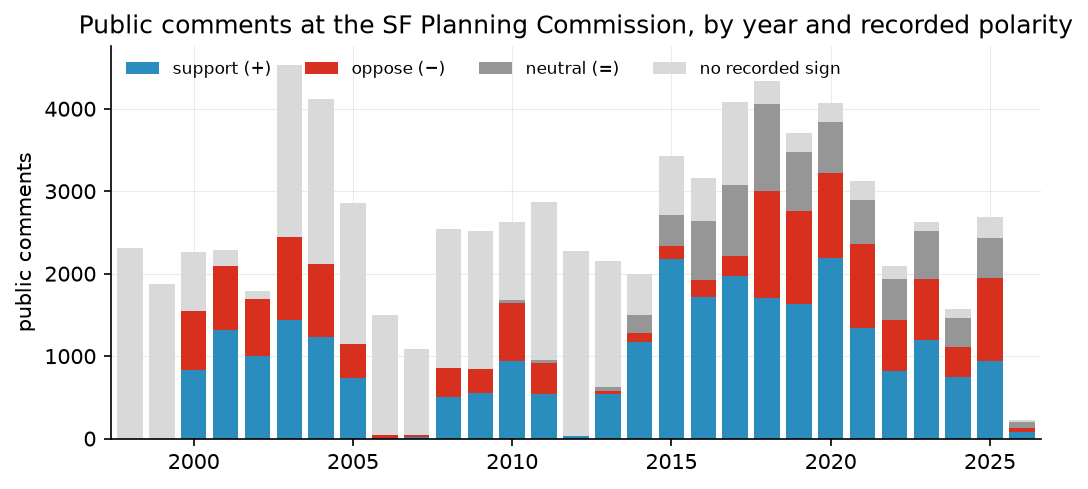
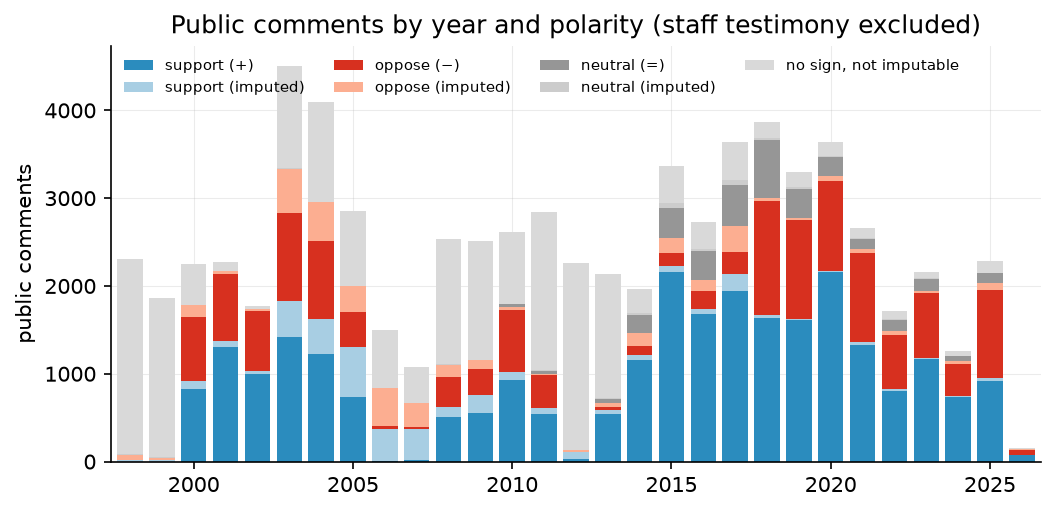
Figures: exclude staff/commissioner testimony; show imputed polarity in lighter shades

diff --git a/pipeline/make_figures.py b/pipeline/make_figures.py
@@ -33,25 +33,33 @@ def load():
     com = pd.read_csv(PUB / "comments.csv", low_memory=False)
     com["year"] = com["meeting_date"].astype(str).str[:4].astype(int)
     com = com[com["year"].between(1998, 2026)]
+    # figures describe *public* comment: exclude staff and commissioners
+    com = com[(com["is_staff"] != 1) & (com["is_commissioner"] != 1)]
     items = pd.read_csv(PUB / "items.csv.gz", low_memory=False)
     return com, items
 
 
+POS_IMP, NEG_IMP, NEU_IMP = "#a8cee3", "#fcae91", "#cccccc"
+
+
 def fig_comments_by_year(com):
-    g = com.groupby(["year", com["sign"].fillna("none")]).size().unstack(fill_value=0)
-    for c in "+-=":
-        if c not in g:
-            g[c] = 0
-    fig, ax = plt.subplots(figsize=(8, 3.4))
+    cat = com["sign"].copy()
+    imputed = com["sign"].isna() & com["sign_imputed"].notna()
+    cat[imputed] = com.loc[imputed, "sign_imputed"] + "imp"
+    g = com.groupby(["year", cat.fillna("none")]).size().unstack(fill_value=0)
+    order = [("+", POS, "support (+)"), ("+imp", POS_IMP, "support (imputed)"),
+             ("-", NEG, "oppose (−)"), ("-imp", NEG_IMP, "oppose (imputed)"),
+             ("=", NEU, "neutral (=)"), ("=imp", NEU_IMP, "neutral (imputed)"),
+             ("none", GREY, "no sign, not imputable")]
+    fig, ax = plt.subplots(figsize=(8, 3.6))
     bottom = None
-    for key, color, label in [("+", POS, "support (+)"), ("-", NEG, "oppose (−)"),
-                              ("=", NEU, "neutral (=)"), ("none", GREY, "no recorded sign")]:
-        vals = g[key]
+    for key, color, label in order:
+        vals = g[key] if key in g else g.iloc[:, 0] * 0
         ax.bar(g.index, vals, bottom=bottom, color=color, label=label, width=0.8)
         bottom = vals if bottom is None else bottom + vals
     ax.set_ylabel("public comments")
-    ax.set_title("Public comments at the SF Planning Commission, by year and recorded polarity")
-    ax.legend(frameon=False, ncol=4, fontsize=8, loc="upper left")
+    ax.set_title("Public comments by year and polarity (staff testimony excluded)")
+    ax.legend(frameon=False, ncol=4, fontsize=7, loc="upper left")
     ax.set_xlim(1997.4, 2026.6)
     fig.savefig(FIG / "comments_by_year.png")
     plt.close(fig)
@@ -69,7 +77,7 @@ def fig_polarity_share(com):
     ax.axhline(0.5, color="grey", lw=0.8, ls="--")
     ax.set_ylabel("share of signed comments\nthat oppose")
     ax.set_ylim(0, 1)
-    ax.set_title("Opposition share among stenographer-signed comments (point size ∝ volume)")
+    ax.set_title("Opposition share among stenographer-signed public comments, staff excluded (point size ∝ volume)")
     fig.savefig(FIG / "polarity_share.png")
     plt.close(fig)
 
@@ -125,6 +133,7 @@ def _draw_neighborhoods(ax):
 
 
 def fig_map(items, com):
+    # com is already staff-excluded by load()
     n_com = (com.groupby("item_id").size().rename("n_comments"))
     d = items.dropna(subset=["latitude", "longitude"]).merge(
         n_com, left_on="item_id", right_index=True, how="left")

diff --git a/README.md b/README.md
@@ -17,13 +17,14 @@ periodically as new minutes are posted.
 
 ![Public comments per year, stacked by recorded polarity](public/figures/comments_by_year.png)
 
-Grey reflects the minutes themselves, not parsing gaps: 1998–2004 minutes
-mostly list speaker names only; 2006–08 minutes summarize comments in
-transcript style without polarity notations; and 2009–2012 minutes list
-names without signs or summaries. The secretary's systematic +/−/= notation
-begins in 2005 and is standard from 2013 on. A classifier imputes polarity
-for unsigned comments that have text (separate columns, never overwriting
-the stenographer).
+Staff and commissioner testimony is excluded. Solid colors are the
+commission secretary's own +/−/= notations (systematic from 2005, standard
+from 2013); lighter shades are model-imputed from the comment text where the
+secretary recorded none (mainly 2006–08, when minutes summarized comments in
+transcript style without polarity marks). Grey is not imputable: 1998–2004
+and 2009–2012 minutes mostly list speaker names with no comment text at all.
+Imputed values live in separate columns and never overwrite the
+stenographer's record.
 
 ![Opposition share among signed comments](public/figures/polarity_share.png)
 
